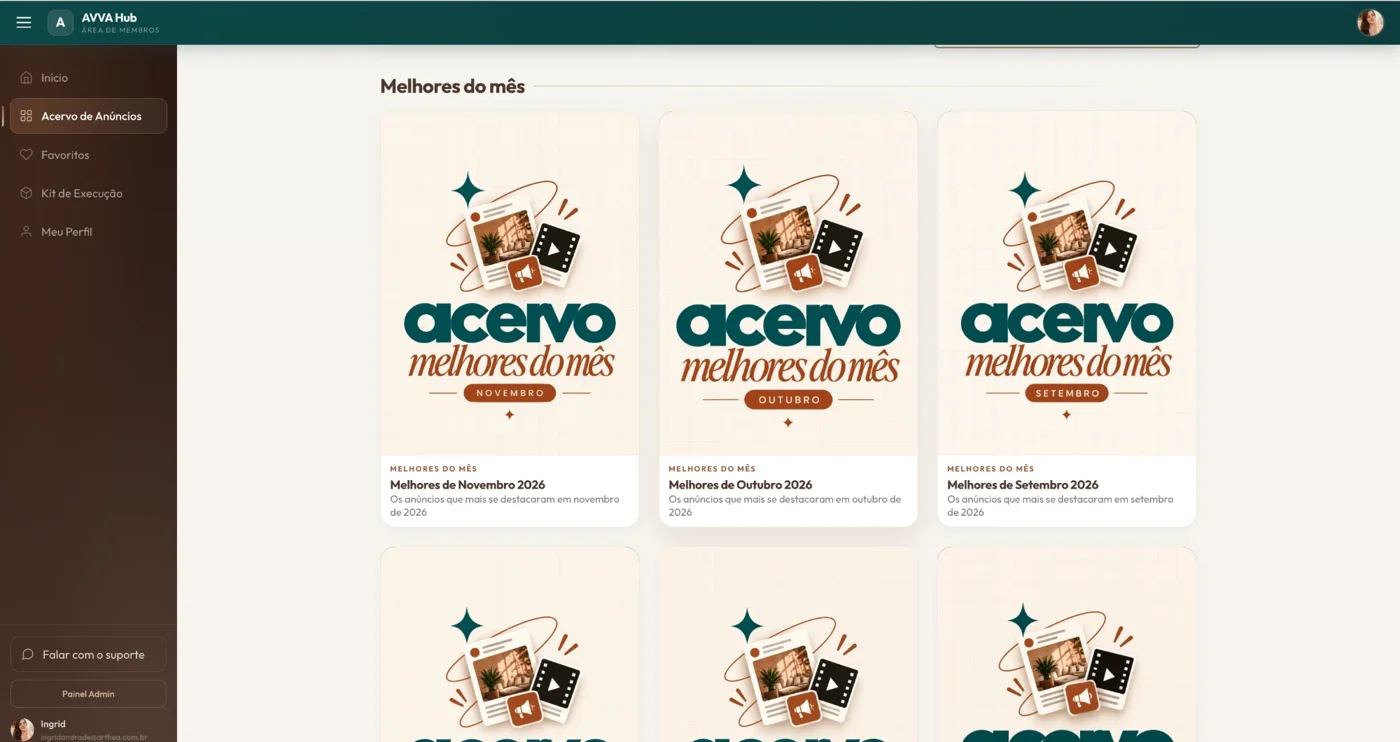
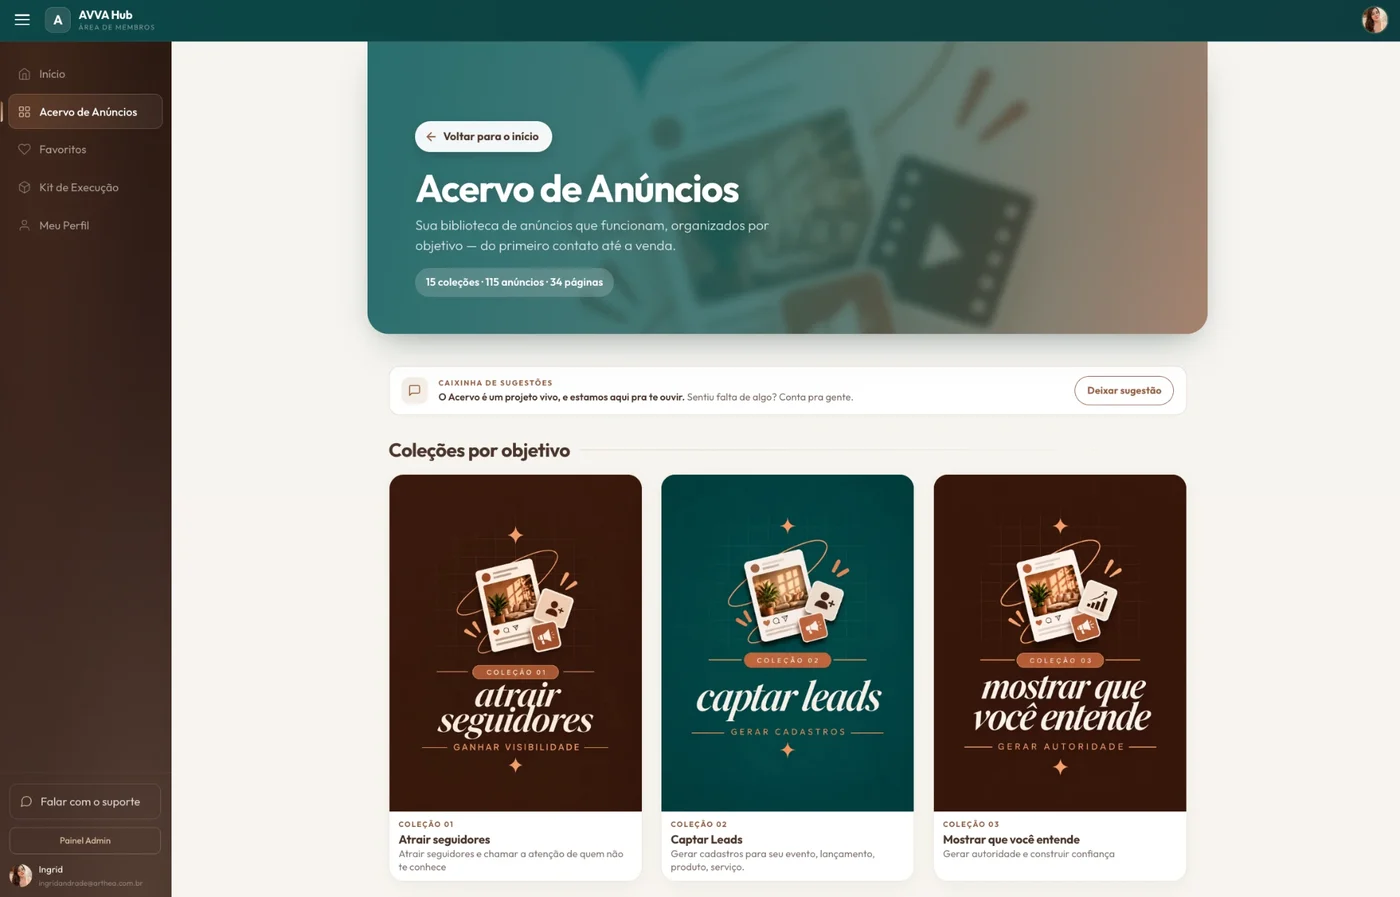
Acervo: telas reais da área de membros e iPhone no mockup (#82)
* acervo: volta a lista de entregáveis (embaixo do vídeo) e o fechamento cenário A x B; 'Quem faz o acervo' vai pra depois do preço

* acervo: análises em pop-up ('Dar uma espiadinha'); título 'O que você vai encontrar no acervo'

- cards curtos com título, tipo e duas linhas; o botão abre a análise inteira numa janela
- janela sobe do rodapé no celular e centraliza no computador; fecha no X, no fundo e no Esc; anterior/próxima
- nota na janela lembrando que o botão Fazer a minha versão fica logo abaixo da análise lá dentro

* acervo: espiadinha junta com 'O que você vai encontrar'; pop-up vira prévia do anúncio aberto, como na área de membros

- seção única em fundo claro: vídeo/mockup, lista de entregáveis e os três cards 'Dar uma espiadinha'
- pop-up espelha o AdModal real: capa do anúncio (miniatura do Drive, a mesma da área de membros), coleção, título, tags, 'Por que funciona' e o botão 'Fazer a minha versão · com IA', que leva pra seção da ferramenta
- anterior/próxima, fecha no X, no fundo e no Esc

* Acervo: ajustes do pop-up e da revisão de layout

Pop-up da espiadinha: a capa volta a aparecer ao trocar de análise,
o foco vai pro fechar e volta pro botão que abriu, o fundo só fecha
num toque de verdade, a página não pula ao travar a rolagem e o
fechar acompanha a rolagem no celular. CSS antigo do pop-up removido.

Layout: CTAs centralizados, cards da espiadinha em três colunas
largas no computador, FAQ com pílula e título, prévia do telefone
[…]

diff --git a/src/pages/acervo/AcervoPage.css b/src/pages/acervo/AcervoPage.css
@@ -186,14 +186,17 @@
 .lp-laptop__screen { border-radius: 14px 14px 4px 4px; border: 6px solid var(--lp-umber); background: var(--lp-umber); overflow: hidden; box-shadow: 0 30px 60px -20px rgba(0, 0, 0, 0.45); }
 .lp-laptop__screen img { width: 100%; height: auto; }
 .lp-laptop__base { height: 10px; margin: 0 -3%; border-radius: 0 0 12px 12px; background: linear-gradient(#3a2a22, #2a1d17); }
-.lp-mockphone { position: absolute; right: 6px; bottom: 0; width: 34%; border-radius: 26px; border: 5px solid var(--lp-umber); background: var(--lp-umber); overflow: hidden; rotate: 4deg; box-shadow: 0 24px 50px -16px rgba(0, 0, 0, 0.55); }
-.lp-mockphone__notch { position: absolute; top: 6px; left: 50%; width: 36%; height: 7px; translate: -50% 0; border-radius: 100px; background: var(--lp-umber); z-index: 2; }
-.lp-mockphone__screen { background: var(--lp-cream); }
-.lp-mockphone__bar { display: flex; align-items: center; gap: 6px; padding: 16px 10px 6px; background: var(--lp-teal); color: #fff; font-size: 0.55rem; font-weight: 700; }
-.lp-mockphone__bar b { display: grid; place-items: center; width: 14px; height: 14px; border-radius: 50%; background: var(--lp-areia); color: var(--lp-ink); font-size: 0.5rem; }
-.lp-mockphone__screen img { width: 100%; height: auto; }
+/* iPhone de verdade: proporção, cantos, bordas finas, ilha e botões */
+.lp-iphone { position: absolute; right: 4px; bottom: 0; width: 27%; aspect-ratio: 9 / 19.2; border-radius: 15% / 7%; background: #111; padding: 2.4%; rotate: 4deg; box-shadow: inset 0 0 0 1.5px rgba(255, 255, 255, 0.22), 0 28px 50px -14px rgba(0, 0, 0, 0.6), 0 0 0 1px rgba(0, 0, 0, 0.6); }
+.lp-iphone__tela { position: relative; width: 100%; height: 100%; border-radius: 13% / 6.2%; overflow: hidden; background: var(--lp-cream); }
+.lp-iphone__tela img { width: 100%; height: 100%; object-fit: cover; object-position: top; }
+.lp-iphone__ilha { position: absolute; top: 2.6%; left: 50%; width: 28%; height: 3.2%; translate: -50% 0; border-radius: 100px; background: #111; z-index: 2; }
+.lp-iphone__botao { position: absolute; width: 1.6%; background: #2a2a2a; border-radius: 2px; }
+.lp-iphone__botao--mudo { left: -1.6%; top: 17%; height: 4%; }
+.lp-iphone__botao--vol1 { left: -1.6%; top: 24%; height: 7%; }
+.lp-iphone__botao--vol2 { left: -1.6%; top: 33%; height: 7%; }
+.lp-iphone__botao--power { right: -1.6%; top: 27%; height: 11%; }
 .lp-sticker--1 { position: absolute; left: 0; top: -12px; rotate: -5deg; }
-.lp-sticker--2 { position: absolute; right: 0; bottom: 42%; rotate: 5deg; background: var(--lp-teal); }
 .lp-video__frame { position: relative; aspect-ratio: 16 / 9; border-radius: 18px; overflow: hidden; border: var(--cut-border); box-shadow: var(--cut-shadow); background: var(--lp-umber); }
 .lp-video__frame iframe, .lp-video__frame video { position: absolute; inset: 0; width: 100%; height: 100%; border: 0; }
 

diff --git a/src/pages/acervo/AcervoPage.jsx b/src/pages/acervo/AcervoPage.jsx
@@ -560,19 +560,21 @@ export default function AcervoPage() {
                 <div className="lp-mock" aria-hidden="true">
                   <div className="lp-laptop">
                     <div className="lp-laptop__screen">
-                      <img src="/acervo/tela-acervo.webp" alt="" width="1400" height="742" loading="lazy" />
+                      <img src="/acervo/tela-acervo.webp" alt="" width="1400" height="897" loading="lazy" />
                     </div>
                     <div className="lp-laptop__base" />
                   </div>
-                  <div className="lp-mockphone">
-                    <span className="lp-mockphone__notch" />
-                    <div className="lp-mockphone__screen">
-                      <div className="lp-mockphone__bar"><b>A</b><span>AVVA Hub</span></div>
-                      <img src="/acervo/card-melhores.webp" alt="" width="720" height="1158" loading="lazy" />
+                  <div className="lp-iphone">
+                    <span className="lp-iphone__botao lp-iphone__botao--mudo" />
+                    <span className="lp-iphone__botao lp-iphone__botao--vol1" />
+                    <span className="lp-iphone__botao lp-iphone__botao--vol2" />
+                    <span className="lp-iphone__botao lp-iphone__botao--power" />
+                    <div className="lp-iphone__tela">
+                      <span className="lp-iphone__ilha" />
+                      <img src="/acervo/card-melhores.webp" alt="" width="720" height="1233" loading="lazy" />
                     </div>
                   </div>
                   <span className="lp-sticker lp-sticker--1">anúncios novos toda semana</span>
-                  <span className="lp-sticker lp-sticker--2">ferramenta inclusa</span>
                 </div>
               )}
           </Reveal>
